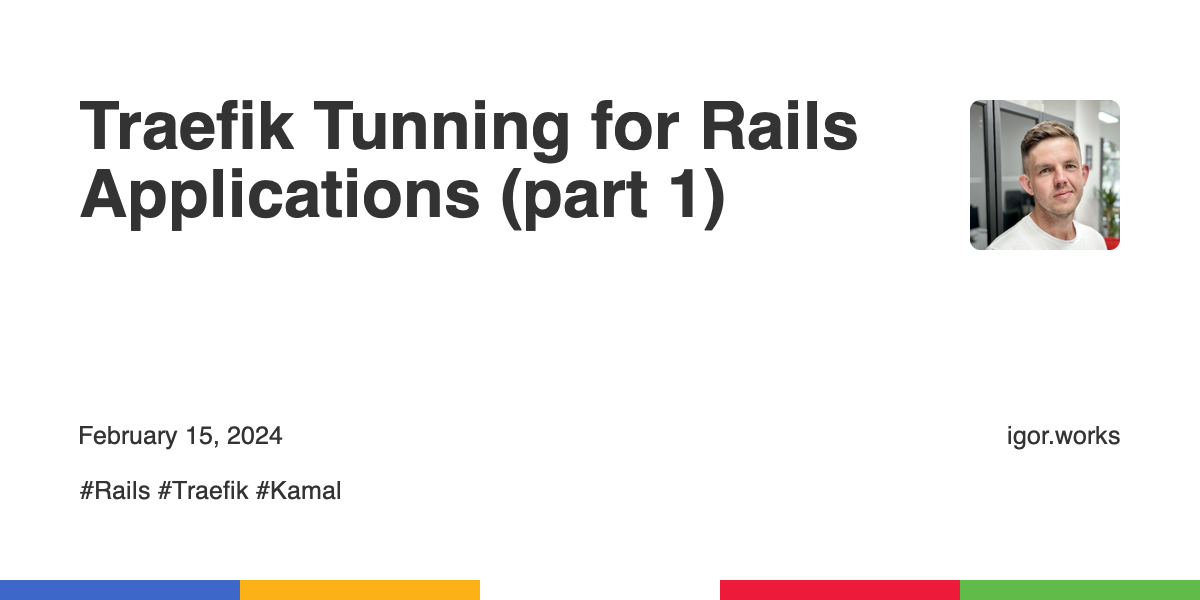
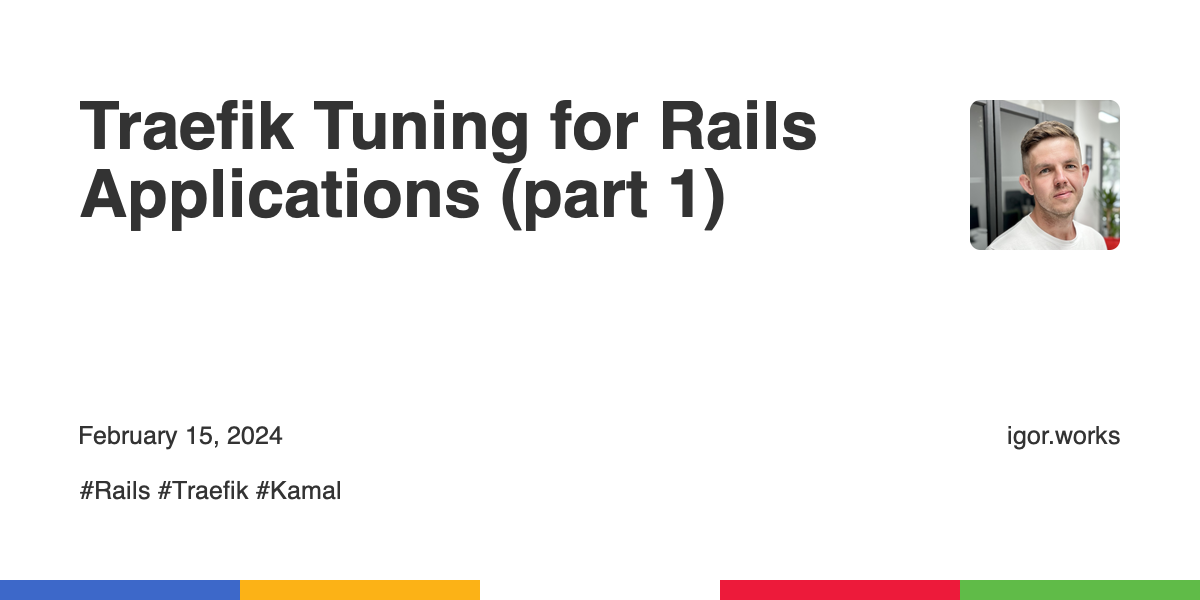
Updated last article title

Changed region(s): [[0.37, 0.15, 0.74, 0.27], [0.3392, 0.15, 0.37, 0.18]]

diff --git a/_posts/2024-02-15-traefik-tunning-for-rails-applications-part-1.md b/_posts/2024-02-15-traefik-tunning-for-rails-applications-part-1.md
@@ -1,5 +1,5 @@
 ---
-title: Traefik Tunning for Rails Applications (part 1)
+title: Traefik Tuning for Rails Applications (part 1)
 layout: post
 tags:
   - Rails
